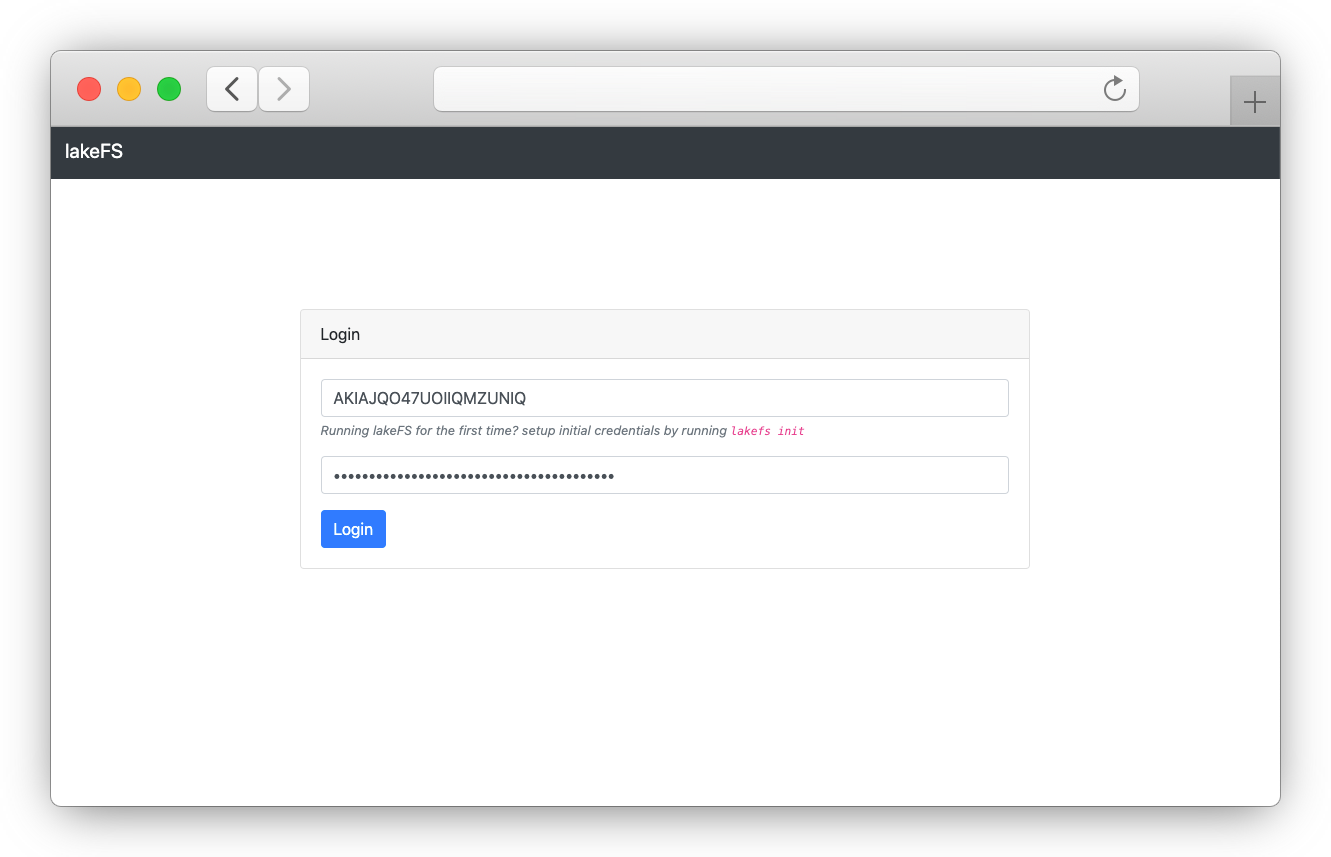
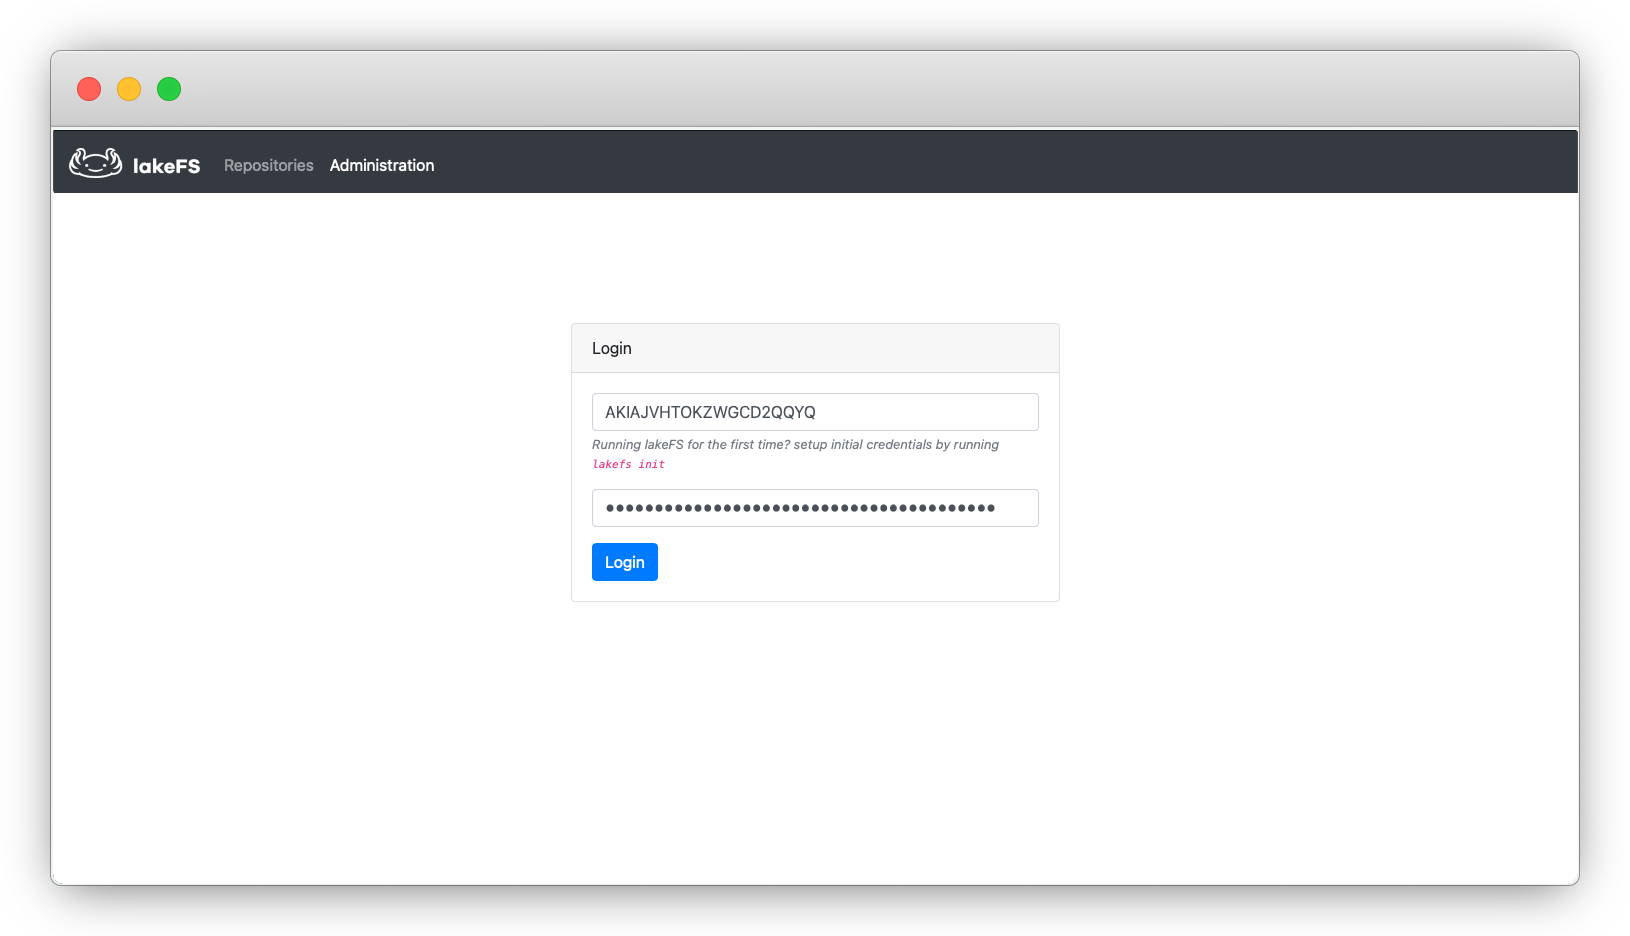
Updated quickstart for consistency

diff --git a/docs/quickstart/lakefs_cli.md b/docs/quickstart/lakefs_cli.md
@@ -26,7 +26,7 @@ has_children: false
      lakectl config
      # output:
      # Config file /home/janedoe/.lakectl.yaml will be used
-     # Access key ID: AKIAIOSFODNN7EXAMPLE
+     # Access key ID: AKIAJVHTOKZWGCD2QQYQ
      # Secret access key: ****************************************
      # Server endpoint URL: http://localhost:8000/api/v1
      ```
@@ -34,7 +34,7 @@ has_children: false
   1. Now that we've configured it, let's run a few sample commands:
 
      ```bash
-     lakectl branch list lakefs://example
+     lakectl branch list lakefs://example-repo
      # output:
      # +----------+------------------------------------------------------------------+
      # | REF NAME | COMMIT ID                                                        |
@@ -42,19 +42,19 @@ has_children: false
      # | main     | a91f56a7e11be1348fc405053e5234e4af7d6da01ed02f3d9a8ba7b1f71499c8 |
      # +----------+------------------------------------------------------------------+
      
-     lakectl commit lakefs://example/main -m 'added our first file!'
+     lakectl commit lakefs://example-repo/main -m 'added our first file!'
      # output:
      # Commit for branch "main" done.
      # 
      # ID: 901f7b21e1508e761642b142aea0ccf28451675199655381f65101ea230ebb87
-     # Timestamp: 2020-05-18 19:26:37 +0300 IDT
+     # Timestamp: 2021-06-15 13:48:37 +0300 IDT
      # Parents: a91f56a7e11be1348fc405053e5234e4af7d6da01ed02f3d9a8ba7b1f71499c8
   
-     lakectl log lakefs://example/main
+     lakectl log lakefs://example-repo/main
      # output:  
      # commit 901f7b21e1508e761642b142aea0ccf28451675199655381f65101ea230ebb87
      # Author: Example User <user@example.com>
-     # Date: 2020-05-18 19:26:37 +0300 IDT
+     # Date: 2021-06-15 13:48:37 +0300 IDT
        
            added our first file!
        

diff --git a/docs/quickstart/aws_cli.md b/docs/quickstart/aws_cli.md
@@ -1,5 +1,5 @@
 ---
-layout: default
+layout: default 
 title: Add Data
 description: In this section we will learn how to configure and use AWS CLI to manage data with the lakeFS Server.
 parent: Quickstart
@@ -16,7 +16,7 @@ In this section we'll review how to copy files into lakeFS using the AWS CLI.
    ```bash
    aws configure --profile local
    # output:
-   # AWS Access Key ID [None]: AKIAIOSFODNN7EXAMPLE
+   # AWS Access Key ID [None]: AKIAJVHTOKZWGCD2QQYQ
    # AWS Secret Access Key [None]: ****************************************
    # Default region name [None]:
    # Default output format [None]:
@@ -26,7 +26,7 @@ In this section we'll review how to copy files into lakeFS using the AWS CLI.
    ```bash
    aws --endpoint-url=http://s3.local.lakefs.io:8000 --profile local s3 ls
    # output:
-   # 2020-05-18 17:47:03 example
+   # 2021-06-15 13:43:03 example-repo
    ```
    
    **Note:** We're using `s3.local.lakefs.io` - a special DNS record which always resolves to localhost, subdomains included.  
@@ -36,9 +36,9 @@ In this section we'll review how to copy files into lakeFS using the AWS CLI.
 1. Great, now let's copy some files. We'll write to the main branch. This is done by prefixing our path with the name of the branch we'd like to read/write from:
 
    ```bash
-   aws --endpoint-url=http://s3.local.lakefs.io:8000 --profile local s3 cp ./foo.txt s3://example/main/
+   aws --endpoint-url=http://s3.local.lakefs.io:8000 --profile local s3 cp ./foo.txt s3://example-repo/main/
    # output:
-   # upload: ./foo.txt to s3://example/main/foo.txt
+   # upload: ./foo.txt to s3://example-repo/main/foo.txt
    ```
 
 1. Back in the lakeFS UI, we should be able to see our file added to the main branch!

diff --git a/docs/quickstart/repository.md b/docs/quickstart/repository.md
@@ -37,7 +37,7 @@ Once we have a repository created, we can start [copying and modifying objects](
 
    A [repository](../understand/branching-model.md#repositories) is lakeFS's basic namespace, akin to S3's Bucket (read more about the data model [here](../understand/branching-model.md)).
    Since we're using the `local` block adapter, the value used for `Storage Namespace` should be a static `local://`.
-   For a deployment that uses S3 as a block adapter, this would be a bucket name with an optional prefix, e.g. `s3://my-bucket/prefix`.
+   For a deployment that uses S3 as a block adapter, this would be a bucket name with an optional prefix, e.g. `s3://example-bucket/prefix`.
    Notice that lakeFS will only manage the data written under that prefix. All actions on the managed data must go through lakeFS endpoint.
    Data written directly to the bucket under different paths will be accessible in the same way it was before.   
    {: .note .note-info }
